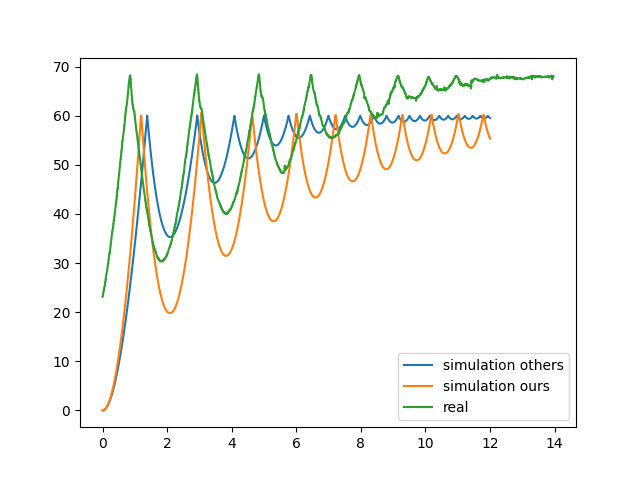
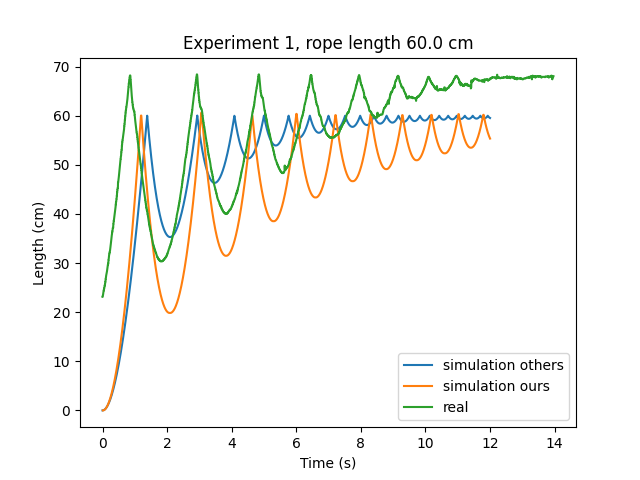
fix: update

diff --git a/research2/tables.py b/research2/tables.py
@@ -2,6 +2,8 @@ import json
 import numpy as np
 import pandas as pd
 
+import matplotlib.pyplot as plt
+
 datas = []
 
 for experiment in range(16):
@@ -9,23 +11,38 @@ for experiment in range(16):
 
     datas.append(data)
 
+
 # create dataframe from list of dicts
-df = pd.DataFrame(datas).loc[:, ['l', 'oscillations', 'max-stretch']]
+df = pd.DataFrame(datas)
 
-# group by l and join oscillations
-df = df.groupby('l').agg(
-    {'oscillations': lambda x: list(x), 'max-stretch': lambda x: list(x)})
+# create a new column with experiments from index
+df['experiments'] = df.index
 
-# add mean and std columns
-df['osc-mean'] = df['oscillations'].apply(np.mean)
-df['osc-std'] = df['oscillations'].apply(np.std)
 
-df['stretch-mean'] = df['max-stretch'].apply(np.mean)
-df['stretch-std'] = df['max-stretch'].apply(np.std)
+# aggregate data by l, join indices
+df = df.groupby('l').agg({'experiments': lambda x: list(x)})
 
-# df is 1st table from assignment
+# iterate through l values
+for l, experiments in df.iterrows():
+    print(l, experiments)
+    # plot experiments
+    plt.clf()
 
-print(df.loc[:, ['oscillations', 'osc-mean', 'osc-std']].head().to_markdown())
+    plt.title(f"Rope length {l} cm")
 
-print(df.loc[:, ['max-stretch', 'stretch-mean',
-      'stretch-std']].head().to_markdown())
+    for experiment in experiments['experiments']:
+        print(experiment)
+        # load data for experiment 0
+        posy = np.array(json.load(open(f"data/{experiment}/poscm.json")))
+        time = np.array(json.load(open(f"data/{experiment}/time.json")))
+
+        posy = posy[: len(time)]
+
+        plt.xlabel("Time (s)")
+        plt.ylabel("Position (cm)")
+
+        # plot posy
+        plt.plot(time, posy, label=f"Experiment {experiment}")
+
+    plt.legend()
+    plt.savefig(f"reportimages/raw_{l}.png")

diff --git a/research2/sim.py b/research2/sim.py
@@ -212,6 +212,10 @@ for experiment in range(16):
     # pyplot clear plot
     plt.clf()
 
+    plt.xlabel('Time (s)')
+    plt.ylabel('Length (cm)')
+    plt.title(f'Experiment {experiment}, rope length {sidedata["l"]} cm')
+
     plt.plot(values[:, 0], values[:, 1], label="simulation others")
     plt.plot(values2[0], np.array(values2[1]) * 100.0, label="simulation ours")
     plt.plot(time, posy, label="real")
